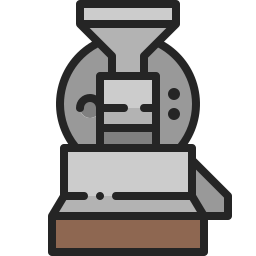
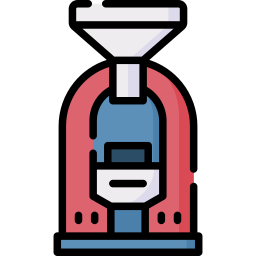
아이콘 변경, package_info_plus 패키지 추가

diff --git a/lib/main.dart b/lib/main.dart
@@ -5,8 +5,10 @@ import 'package:bean_diary/screens/sale_management_main.dart';
 import 'package:bean_diary/screens/stock_status_main.dart';
 import 'package:bean_diary/utility/colors_list.dart';
 import 'package:flutter/material.dart';
+import 'package:package_info_plus/package_info_plus.dart';
 
 void main() {
+  // WidgetsFlutterBinding.ensureInitialized();
   runApp(const MyApp());
 }
 
@@ -165,13 +167,24 @@ class MyHomePage extends StatefulWidget {
 }
 
 class _MyHomePageState extends State<MyHomePage> {
+  PackageInfo? packageInfo;
   final List<Map<String, dynamic>> _menus = [
     {"title": "재고 현황", "img": "assets/images/stock.png", "screen": const StockStatusMain()},
-    {"title": "생두 입고 관리", "img": "assets/images/warehouse.png", "screen": const GreenBeanWarehousingMain()},
+    {"title": "생두 입고 관리", "img": "assets/images/delivery.png", "screen": const GreenBeanWarehousingMain()},
     {"title": "로스팅 관리", "img": "assets/images/roaster.png", "screen": const RoastingManagementMain()},
-    {"title": "판매 관리", "img": "assets/images/coffee_bag.png", "screen": const SaleManagementMain()},
-    {"title": "판매 내역", "img": "assets/images/sales_management.png", "screen": const SaleHistoryMain()},
+    {"title": "판매 관리", "img": "assets/images/production.png", "screen": const SaleManagementMain()},
+    {"title": "판매 내역", "img": "assets/images/coffee_bag.png", "screen": const SaleHistoryMain()},
   ];
+
+  @override
+  void initState() {
+    super.initState();
+    getPackageInfo();
+  }
+
+  Future getPackageInfo() async {
+    packageInfo = await PackageInfo.fromPlatform();
+  }
 
   @override
   Widget build(BuildContext context) {
@@ -188,7 +201,7 @@ class _MyHomePageState extends State<MyHomePage> {
       ),
       drawer: Container(
         color: Colors.brown[50],
-        width: width * 0.8,
+        width: width * 0.85,
         child: SafeArea(
           child: Column(
             mainAxisAlignment: MainAxisAlignment.center,
@@ -199,7 +212,7 @@ class _MyHomePageState extends State<MyHomePage> {
               ),
               const SizedBox(height: 20),
               Text(
-                "bean diary",
+                "Bean Diary",
                 style: TextStyle(
                   fontSize: height / 60,
                   color: Colors.black54,
@@ -214,8 +227,9 @@ class _MyHomePageState extends State<MyHomePage> {
                 ),
               ),
               const SizedBox(height: 50),
-              const Text("v 1.0.0"),
+              const Text("v1.0.0"),
               const Text("created by 남기덕"),
+              Text("Coffee icons created by Freepik - Flaticon")
             ],
           ),
         ),

diff --git a/lib/screens/sale_history_main.dart b/lib/screens/sale_history_main.dart
@@ -37,7 +37,7 @@ class _SaleHistoryMainState extends State<SaleHistoryMain> {
         centerTitle: true,
       ),
       floatingActionButton: FloatingActionButton.small(
-        backgroundColor: Colors.brown.withOpacity(0.5),
+        backgroundColor: Colors.brown.withOpacity(0.85),
         foregroundColor: Colors.white,
         tooltip: "날짜순",
         elevation: 3,
@@ -59,17 +59,19 @@ class _SaleHistoryMainState extends State<SaleHistoryMain> {
                 crossAxisAlignment: CrossAxisAlignment.baseline,
                 textBaseline: TextBaseline.ideographic,
                 children: [
-                  Text(
-                    _saleHistoryCtrl.filterValue == "전체"
-                        ? "\t\t${_saleHistoryCtrl.totalList.length} 건"
-                        : _saleHistoryCtrl.filterValue == "싱글오리진"
-                            ? "\t\t${_saleHistoryCtrl.singleList.length} 건"
-                            : "\t\t${_saleHistoryCtrl.blendList.length} 건",
-                    style: TextStyle(
-                      fontSize: height / 60,
-                      color: Colors.black87,
-                    ),
-                  ),
+                  _saleHistoryCtrl.totalList.length > 0
+                      ? Text(
+                          _saleHistoryCtrl.filterValue == "전체"
+                              ? "\t\t${_saleHistoryCtrl.totalList.length} 건"
+                              : _saleHistoryCtrl.filterValue == "싱글오리진"
+                                  ? "\t\t${_saleHistoryCtrl.singleList.length} 건"
+                                  : "\t\t${_saleHistoryCtrl.blendList.length} 건",
+                          style: TextStyle(
+                            fontSize: height / 60,
+                            color: Colors.black87,
+                          ),
+                        )
+                      : const SizedBox(),
                   Row(
                     children: [
                       TextButton(

diff --git a/macos/Flutter/GeneratedPluginRegistrant.swift b/macos/Flutter/GeneratedPluginRegistrant.swift
@@ -6,11 +6,13 @@ import FlutterMacOS
 import Foundation
 
 import flutter_localization
+import package_info_plus
 import shared_preferences_foundation
 import sqflite
 
 func RegisterGeneratedPlugins(registry: FlutterPluginRegistry) {
   FlutterLocalizationPlugin.register(with: registry.registrar(forPlugin: "FlutterLocalizationPlugin"))
+  FLTPackageInfoPlusPlugin.register(with: registry.registrar(forPlugin: "FLTPackageInfoPlusPlugin"))
   SharedPreferencesPlugin.register(with: registry.registrar(forPlugin: "SharedPreferencesPlugin"))
   SqflitePlugin.register(with: registry.registrar(forPlugin: "SqflitePlugin"))
 }

diff --git a/lib/widgets/custom_date_picker.dart b/lib/widgets/custom_date_picker.dart
@@ -41,6 +41,7 @@ class CustomDatePicker extends StatelessWidget {
             showModalBottomSheet(
               context: context,
               showDragHandle: true,
+              backgroundColor: Colors.white,
               builder: (context) {
                 return SizedBox(
                   height: height / 3.5,
